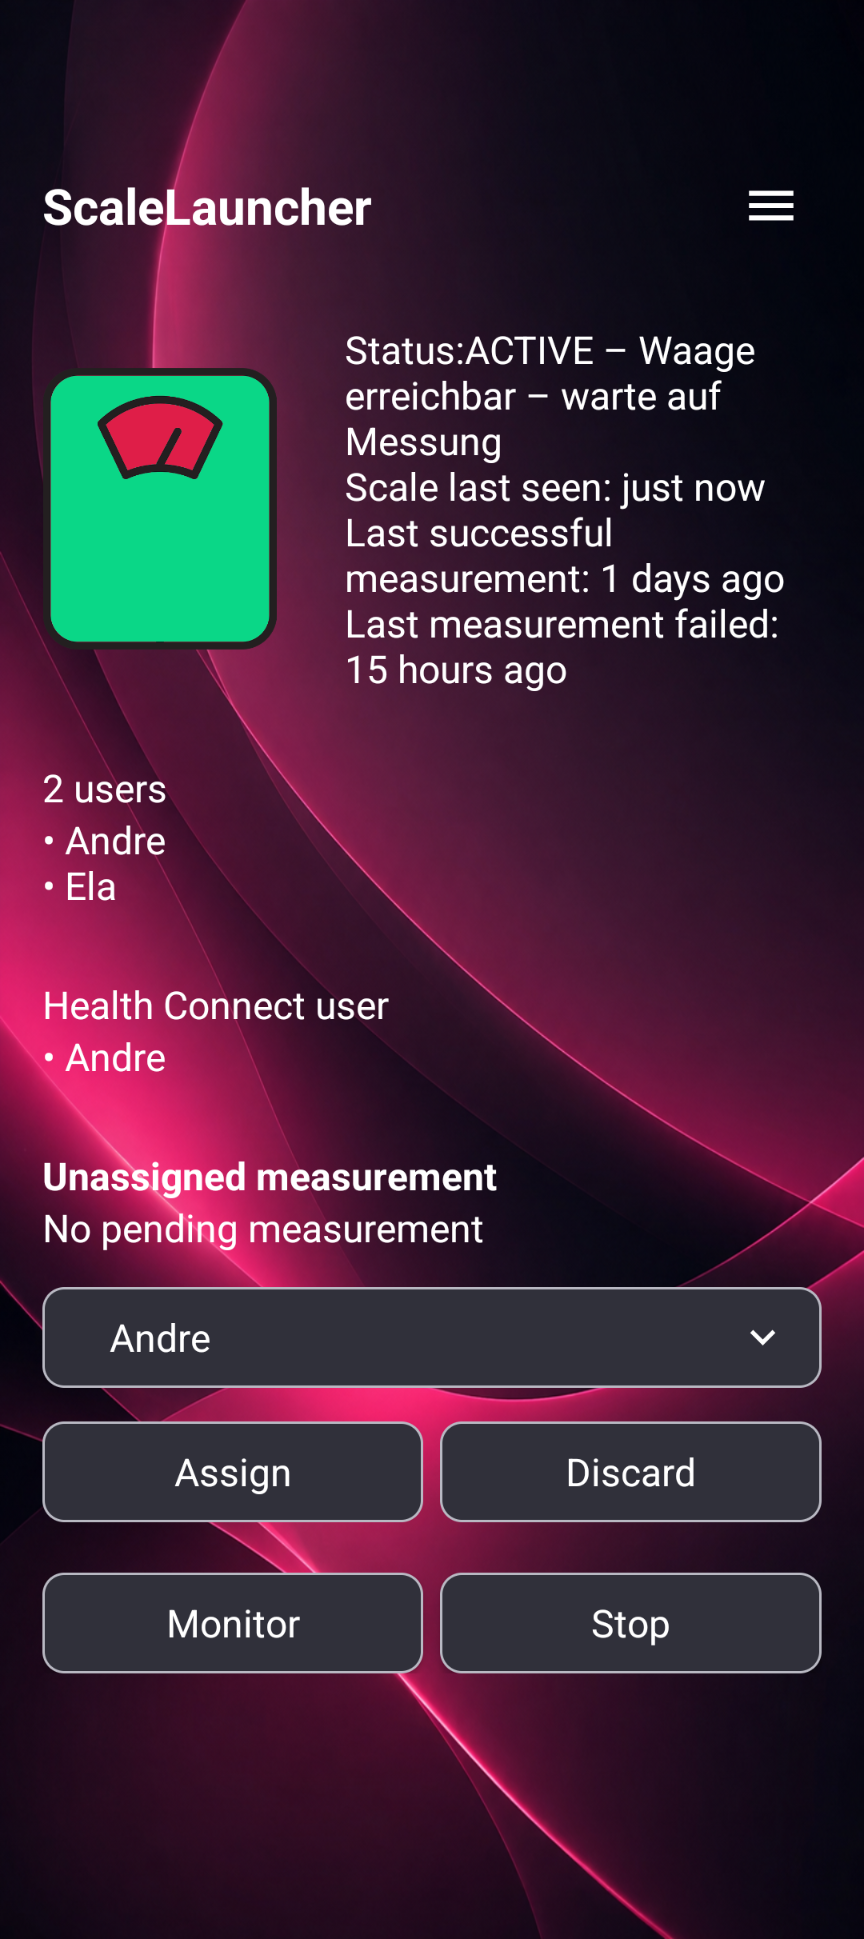
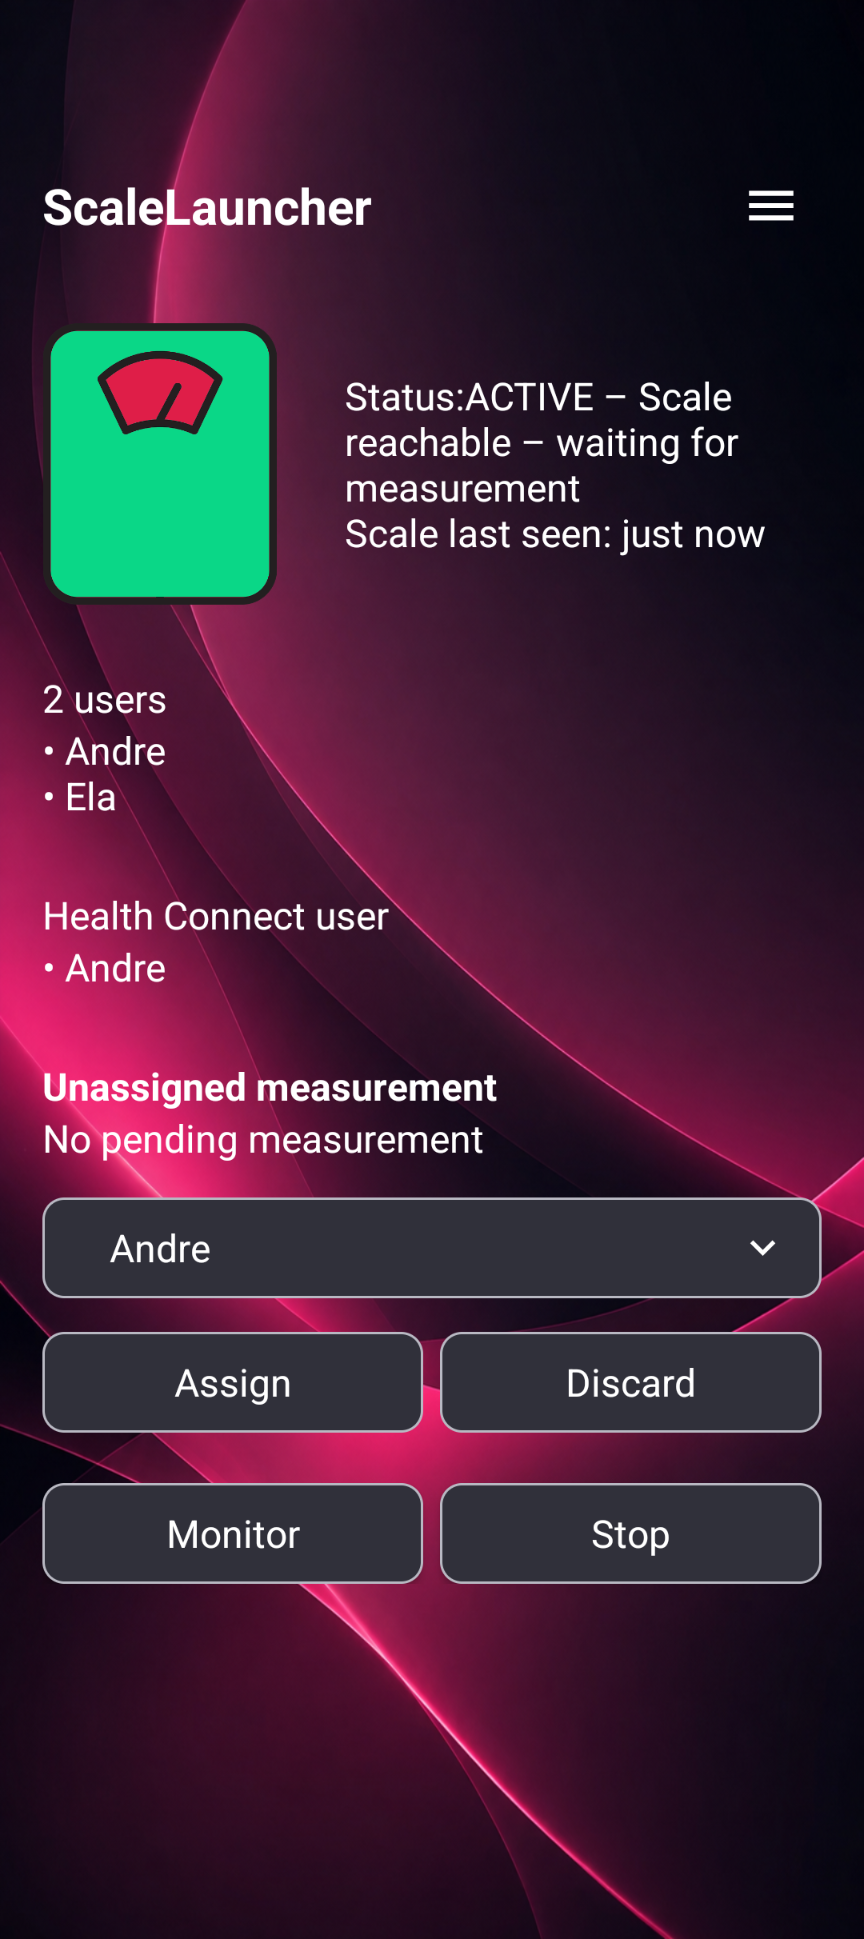
Update troubleshooting and English screenshots

Changed region(s): [[0.0312, 0.2785, 0.9688, 0.8664], [0.4062, 0.1547, 0.9062, 0.3713], [0.0625, 0.1547, 0.3438, 0.2476]]

diff --git a/README.md b/README.md
@@ -18,7 +18,7 @@
 
 > **In one sentence:** ScaleLauncher receives the encrypted Bluetooth data sent by the Xiaomi S400, decrypts and validates it locally, assigns the measurement to an openScale user, and stores the complete measurement in openScale. Selected values for one primary user can optionally also be written to Health Connect.
 
-> **Documentation last updated: August 5, 2026**
+> **Documentation last updated: August 8, 2026**
 
 ---
 
@@ -625,7 +625,7 @@ Result notifications remain visible until dismissed or replaced by a newer resul
 Open **Log** to inspect important events.
 
 <p align="center">
-  <img src="docs/images/protokoll.png" alt="ScaleLauncher log screen; German example" width="320">
+  <img src="docs/images/protokoll-en.png" alt="ScaleLauncher log screen in English" width="320">
 </p>
 
 ### Normal mode
@@ -673,6 +673,7 @@ The toolbar can:
 | Monitoring does not start | “Manage app if unused” is enabled | Disable that Android option for ScaleLauncher. |
 | No persistent notification | Notification permission is missing | Allow notifications in App info. |
 | Scale is not detected | Bluetooth is off or the MAC is wrong | Enable Bluetooth and select the S400 again. |
+| Scale is reachable but no measurement arrives | The S400 may temporarily broadcast only idle BLE packets | Stop ScaleLauncher monitoring, complete one full measurement in Xiaomi Home, fully close Xiaomi Home, then start ScaleLauncher monitoring again. |
 | S400 packets cannot be decrypted | Bind key is wrong | Verify the 32-character bind key. |
 | Measurements are repeatedly rejected | Packet A or B is missing | Repeat the measurement and move the phone closer to the scale. |
 | User is not assigned automatically | Weight or tolerance is unsuitable | Review the profile and update the stored weight. |

diff --git a/README.de.md b/README.de.md
@@ -18,7 +18,7 @@
 
 > **Kurz erklärt:** ScaleLauncher empfängt die verschlüsselten Bluetooth-Messdaten der Xiaomi S400, entschlüsselt und prüft sie lokal, ordnet die Messung einem openScale-Benutzer zu und speichert die vollständigen Werte in openScale. Für einen ausgewählten Hauptbenutzer können Werte zusätzlich direkt an Health Connect übertragen werden.
 
-> **Stand dieser Anleitung: 5. August 2026**
+> **Stand dieser Anleitung: 8. August 2026**
 
 ---
 
@@ -719,6 +719,7 @@ werden.
 | Überwachung startet nicht | „App bei Nichtnutzung verwalten“ aktiv | Diese Android-Funktion für ScaleLauncher deaktivieren. |
 | Keine permanente Benachrichtigung | Benachrichtigungsrecht fehlt | Benachrichtigungen in der App-Info erlauben. |
 | Waage wird nicht gefunden | Bluetooth aus oder falsche MAC-Adresse | Bluetooth einschalten und die S400 erneut auswählen. |
+| Waage ist erreichbar, aber es kommt keine Messung an | Die S400 sendet möglicherweise vorübergehend nur BLE-Leerlaufpakete | ScaleLauncher-Überwachung stoppen, in Xiaomi Home eine vollständige Messung durchführen, Xiaomi Home anschließend vollständig schließen und die ScaleLauncher-Überwachung erneut starten. |
 | S400-Pakete können nicht entschlüsselt werden | Bind-Key falsch | Den 32-stelligen Bind-Key prüfen. |
 | Messung wird immer verworfen | Paket A oder B fehlt | Messung erneut durchführen und Telefon näher an der Waage platzieren. |
 | Benutzer wird nicht automatisch erkannt | Gewicht oder Toleranz unpassend | Benutzerprofil prüfen und hinterlegtes Gewicht aktualisieren. |
